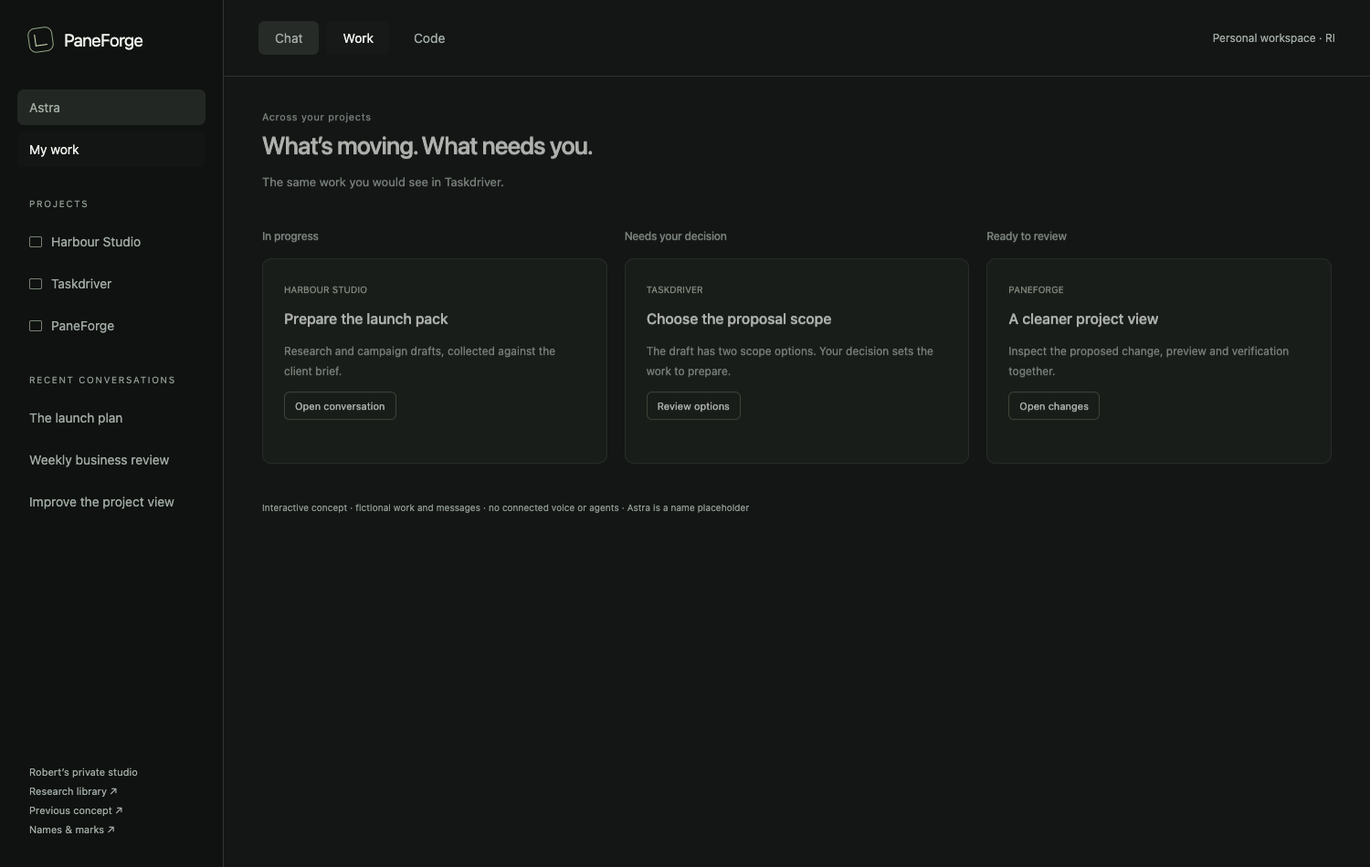
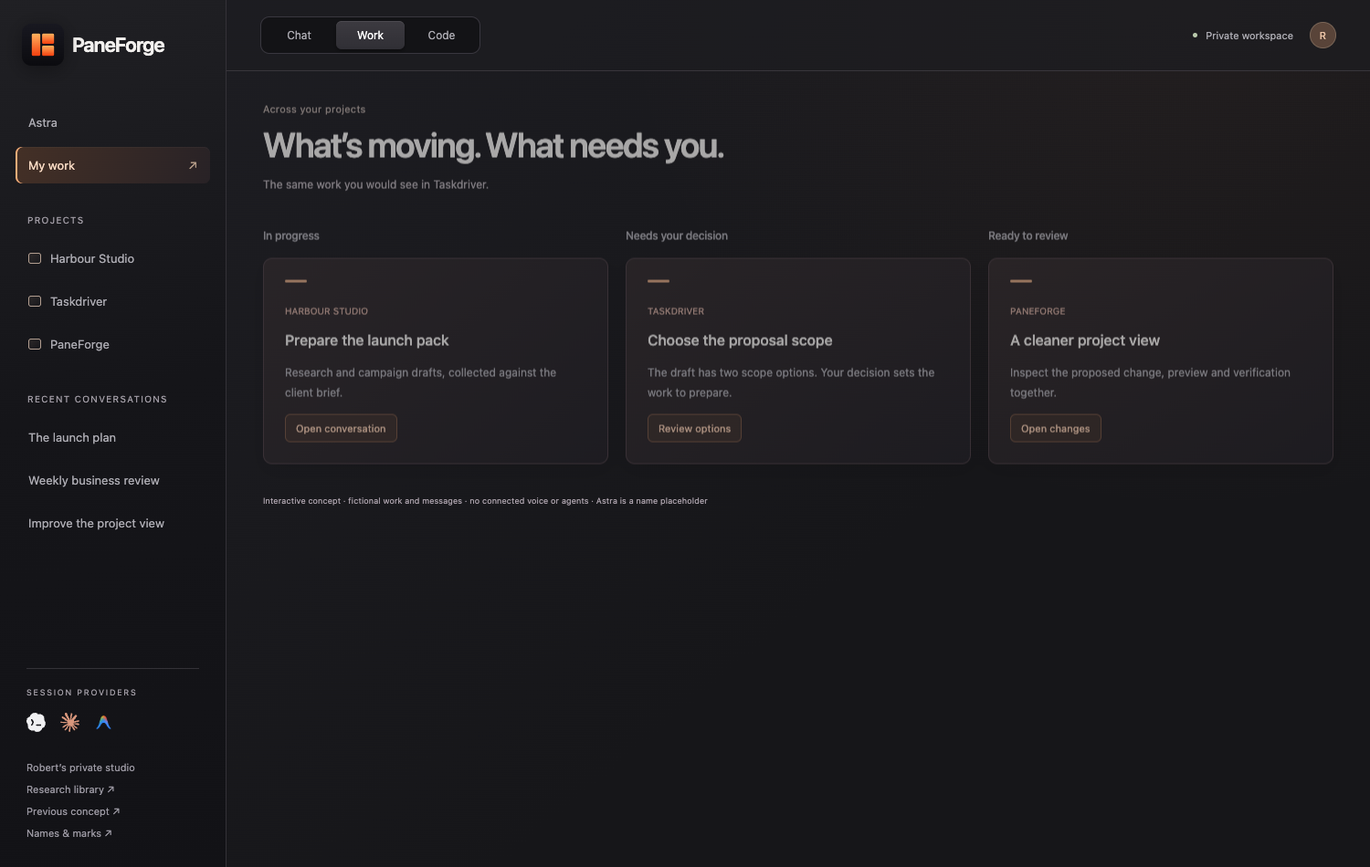
design: restore PaneForge identity and provider branding in studio

diff --git a/docs/design/paneforge-directions/studio.html b/docs/design/paneforge-directions/studio.html
@@ -1,6 +1,6 @@
 <!doctype html><html lang="en"><head><meta charset="utf-8"><meta name="viewport" content="width=device-width, initial-scale=1"><title>PaneForge · Your studio</title><style>
 :root{color-scheme:dark;--bg:#141615;--panel:#1b1e1c;--line:#303531;--text:#eceee9;--muted:#a0aaa2;--accent:#d7e9bd}*{box-sizing:border-box}body{margin:0;background:var(--bg);color:var(--text);font:14px -apple-system,BlinkMacSystemFont,'Segoe UI',sans-serif}button,input,textarea{font:inherit}button,a{color:inherit}button{cursor:pointer;background:none;border:0}a{text-decoration:none}button:focus-visible,a:focus-visible,textarea:focus-visible{outline:2px solid var(--accent);outline-offset:3px}.app{display:grid;grid-template-columns:245px minmax(0,1fr);min-height:100vh}.sidebar{padding:30px 19px;background:#101211;border-right:1px solid var(--line);display:flex;flex-direction:column;gap:7px}.brand{display:flex;align-items:center;gap:12px;font-size:19px;letter-spacing:-.5px;margin:0 12px 34px}.mark{width:27px;height:27px;display:inline-block;border:1px solid #94a786;border-radius:8px;transform:rotate(-8deg);position:relative}.mark:after{content:'';position:absolute;inset:6px;border-left:1px solid var(--accent);border-bottom:1px solid var(--accent)}.sidebar button{text-align:left;padding:11px 13px;border-radius:7px;color:var(--muted)}.sidebar button.active{background:#252a25;color:var(--text)}.sidebar small{font-size:10px;text-transform:uppercase;letter-spacing:1.6px;color:#8c978f;margin:27px 13px 9px}.project{display:flex;gap:10px;align-items:center}.project:before{content:'';width:12px;height:10px;border:1px solid #768175;border-radius:2px}.bottom{margin-top:auto;padding:40px 13px 0;font-size:11px;line-height:1.9;color:var(--muted)}.bottom a{display:block}.main{min-width:0;display:flex;flex-direction:column}.top{height:84px;border-bottom:1px solid var(--line);display:flex;align-items:center;padding:0 38px;gap:32px}.tabs{display:flex;gap:8px}.tabs button{padding:10px 18px;border-radius:7px;color:var(--muted)}.tabs button.active{color:var(--text);background:#292e29}.account{margin-left:auto;font-size:12px;color:var(--muted)}.canvas{padding:35px 42px;max-width:1500px;width:100%;margin:auto;flex:1}.heading{display:flex;align-items:center;justify-content:space-between;gap:15px;margin-bottom:28px}.eyebrow{font-size:11px;color:var(--muted);letter-spacing:.6px}h1{font-size:27px;font-weight:500;letter-spacing:-.8px;margin:9px 0}h2{font-size:17px;font-weight:500;letter-spacing:-.3px}.sub{color:var(--muted);line-height:1.7;font-size:13px}.pill{border:1px solid #424c40;border-radius:20px;padding:8px 13px;font-size:11px;color:#c9d4c5}.chat-layout{display:grid;grid-template-columns:minmax(0,1fr) 275px;gap:42px}.chat{max-width:740px}.speaker{font-size:12px;font-weight:600;margin-bottom:12px;display:flex;align-items:center;gap:9px}.dot{width:7px;height:7px;border-radius:50%;background:var(--accent)}.message{font-size:16px;line-height:1.85;letter-spacing:-.15px;margin-bottom:25px}.user{margin:26px 0 32px 60px;padding:17px 21px;background:#242924;border-radius:14px 14px 3px 14px;font-size:14px;line-height:1.7}.attachment{border:1px solid var(--line);border-radius:10px;display:flex;align-items:center;gap:14px;padding:17px;margin:18px 0}.filemark{border:1px solid #697363;border-radius:5px;padding:12px;font-size:11px;color:var(--accent)}.attachment strong{display:block;font-size:13px;font-weight:500}.attachment small{display:block;font-size:11px;color:var(--muted);margin-top:6px}.attachment button{margin-left:auto;border:1px solid #475040;padding:8px 13px;border-radius:6px;font-size:12px}.composer{border:1px solid #4c5946;background:#1d221c;border-radius:13px;padding:14px 16px;margin-top:35px}.composer textarea{resize:vertical;width:100%;min-height:52px;border:0;background:none;color:var(--text);outline:none;line-height:1.6}.compose-actions{display:flex;align-items:center;gap:10px}.compose-actions button{padding:9px 12px;border-radius:7px;font-size:12px;border:1px solid #424c3f}.compose-actions .send{margin-left:auto;background:var(--accent);color:#1d2917;border:0}.context{border-left:1px solid var(--line);padding-left:26px}.context h2{margin-top:0}.context p{font-size:12px;color:var(--muted);line-height:1.8}.context button{display:block;text-align:left;width:100%;padding:13px 0;border-bottom:1px solid var(--line);font-size:12px}.context small{display:block;color:var(--muted);font-size:11px;margin-top:6px}.context .section{margin-top:35px}.view[hidden]{display:none}.work-grid{display:grid;grid-template-columns:repeat(3,minmax(0,1fr));gap:19px}.column>h2{font-size:12px;color:var(--muted);margin:0 0 17px}.card{background:#1b201b;border:1px solid var(--line);border-radius:10px;padding:23px;margin-bottom:14px;min-height:225px}.card h3{font-size:16px;font-weight:500;line-height:1.5;margin:13px 0}.card p{font-size:12px;color:var(--muted);line-height:1.8}.card button{border:1px solid #4c5746;border-radius:6px;padding:8px 11px;font-size:11px}.card small{font-size:10px;color:#b0b9aa}.code-layout{display:grid;grid-template-columns:180px minmax(0,1fr);border:1px solid var(--line);border-radius:10px;overflow:hidden}.files{padding:20px;background:#111512;color:var(--muted);font:12px ui-monospace,monospace;line-height:2.9}.editor{background:#191e19;min-width:0}.editor header{display:flex;align-items:center;gap:15px;border-bottom:1px solid var(--line);padding:16px 22px;font-size:12px}.editor header span{margin-left:auto;color:var(--muted);font-size:11px}.editor pre{overflow:auto;margin:0;padding:28px;font:13px/2 ui-monospace,SFMono-Regular,monospace;color:#bac7b2;white-space:pre-wrap;overflow-wrap:anywhere}.terminal{border-top:1px solid var(--line);background:#141815;padding:19px 25px}.terminal .actions{display:flex;gap:17px;margin-bottom:20px}.terminal button{font-size:11px;color:var(--muted);padding:3px 0}.terminal output{font:12px/1.8 ui-monospace,monospace;color:#b4c2ab}.prototype{margin-top:30px;font-size:10px;color:#8d988f}.toast{position:fixed;bottom:25px;left:50%;transform:translateX(-50%);background:#e2ebd8;color:#182114;padding:14px 20px;border-radius:8px;max-width:85%;font-size:13px;line-height:1.6;box-shadow:0 5px 35px #0006}.toast:empty{display:none}@media(prefers-reduced-motion:no-preference){.view{animation:enter .18s ease-out}@keyframes enter{from{opacity:.6;transform:translateY(3px)}to{opacity:1;transform:none}}button{transition:background .15s}}@media(max-width:1100px){.app{grid-template-columns:205px minmax(0,1fr)}.canvas{padding:28px}.chat-layout{grid-template-columns:minmax(0,1fr)}.context{display:none}.work-grid{grid-template-columns:1fr}.card{min-height:0}.code-layout{grid-template-columns:130px minmax(0,1fr)}}@media(max-width:640px){.app{display:block}.sidebar{display:none}.top{padding:0 12px;height:68px;gap:5px}.tabs button{padding:10px 14px}.account{font-size:10px}.canvas{padding:23px 19px}.heading{align-items:start}h1{font-size:25px}.pill{display:none}.message{font-size:14px}.user{margin-left:25px}.code-layout{display:block}.files{display:none}.editor header{padding:13px}.editor pre{padding:16px;font-size:11px}.attachment{padding:12px;gap:9px}.attachment button{padding:7px}.context{display:none}}
-</style></head><body><div class="app"><aside class="sidebar"><div class="brand"><span class="mark"></span>PaneForge</div><button class="active" data-mode="chat">Astra</button><button data-mode="work">My work</button><small>Projects</small><button class="project" data-project="Harbour Studio">Harbour Studio</button><button class="project" data-project="Taskdriver">Taskdriver</button><button class="project" data-project="PaneForge">PaneForge</button><small>Recent conversations</small><button data-thread="launch">The launch plan</button><button data-thread="review">Weekly business review</button><button data-mode="code">Improve the project view</button><div class="bottom">Robert’s private studio<br><a href="../../research/open-source-harness-catalogue/index.html">Research library ↗</a><a href="workspace.html">Previous concept ↗</a><a href="branding/index.html">Names & marks ↗</a></div></aside><main class="main"><header class="top"><nav class="tabs" aria-label="Workspace views"><button class="active" data-mode="chat" aria-selected="true">Chat</button><button data-mode="work" aria-selected="false">Work</button><button data-mode="code" aria-selected="false">Code</button></nav><span class="account">Personal workspace · RI</span></header><div class="canvas"><section class="view" id="chat"><div class="heading"><div><div class="eyebrow" id="project-name">Harbour Studio / The launch plan</div><h1>A little more room to think.</h1></div><span class="pill">Astra · Your assistant</span></div><div class="chat-layout"><div class="chat"><div class="user" id="user-message">Can you get the launch ready and show me what needs a decision?</div><div class="speaker"><span class="dot"></span>Astra</div><div class="message" id="answer">Yes. I’d start with the client brief, prepare the campaign drafts, then bring the work back here for review.<br><br>You can keep talking with me while that runs. The project will hold the research, files and decisions together.</div><div class="attachment"><span class="filemark">DOC</span><div><strong id="artifact">Launch brief</strong><small>Sample document · ready to review</small></div><button id="review">Review</button></div><div class="sub">Nothing goes to the client until you approve it.</div><div class="composer"><textarea aria-label="Message Astra" placeholder="Ask Astra, or think out loud…"></textarea><div class="compose-actions"><button id="voice">Talk to Astra</button><button id="attach">Attach</button><button class="send" id="send">Send ↑</button></div></div></div><aside class="context"><h2>In this project</h2><p>Keep the brief close. Bring in more context when the work needs it.</p><button id="folder">Project folder ↗<small>Briefs, assets and deliverables</small></button><button data-mode="work">Launch preparation<small>View the work and decisions</small></button><div class="section"><h2>Working with</h2><button class="role">Research<small>Find sources and clarify gaps</small></button><button class="role">Marketing<small>Turn the brief into campaign drafts</small></button><p>Saved skills, called when needed.</p></div></aside></div></section><section class="view" id="work" hidden><div class="heading"><div><div class="eyebrow">Across your projects</div><h1>What’s moving. What needs you.</h1><p class="sub">The same work you would see in Taskdriver.</p></div></div><div class="work-grid"><div class="column"><h2>In progress</h2><article class="card"><small>HARBOUR STUDIO</small><h3>Prepare the launch pack</h3><p>Research and campaign drafts, collected against the client brief.</p><button data-mode="chat">Open conversation</button></article></div><div class="column"><h2>Needs your decision</h2><article class="card"><small>TASKDRIVER</small><h3>Choose the proposal scope</h3><p>The draft has two scope options. Your decision sets the work to prepare.</p><button class="sample-review">Review options</button></article></div><div class="column"><h2>Ready to review</h2><article class="card"><small>PANEFORGE</small><h3>A cleaner project view</h3><p>Inspect the proposed change, preview and verification together.</p><button data-mode="code">Open changes</button></article></div></div></section><section class="view" id="code" hidden><div class="heading"><div><div class="eyebrow">PaneForge / Improve the project view</div><h1>The details, when you need them.</h1></div><button class="pill" id="preview">Open preview ↗</button></div><div class="code-layout"><aside class="files">src/<br>　components/<br>　 ProjectView.tsx<br>　 ProjectRow.tsx<br>tests/<br>　 project-view</aside><div class="editor"><header>ProjectView.tsx<span>Proposed change · sample</span></header><pre>// Illustrative code, not a repository change
+</style><link rel="stylesheet" href="studio-polish.css"></head><body><div class="app"><aside class="sidebar"><div class="brand"><img class="pf-logo" src="assets/brands/paneforge.svg" alt="PaneForge logo">PaneForge</div><button class="active" data-mode="chat">Astra</button><button data-mode="work">My work <span class="nav-arrow">↗</span></button><small>Projects</small><button class="project" data-project="Harbour Studio">Harbour Studio</button><button class="project" data-project="Taskdriver">Taskdriver</button><button class="project" data-project="PaneForge">PaneForge</button><small>Recent conversations</small><button data-thread="launch">The launch plan</button><button data-thread="review">Weekly business review</button><button data-mode="code">Improve the project view</button><div class="sidebar-providers"><span>SESSION PROVIDERS</span><img src="assets/brands/codex.svg" alt="Codex" title="Codex"><img src="assets/brands/claude.svg" alt="Claude" title="Claude"><img src="assets/brands/antigravity.png" alt="Antigravity" title="Antigravity"></div><div class="bottom">Robert’s private studio<br><a href="../../research/open-source-harness-catalogue/index.html">Research library ↗</a><a href="workspace.html">Previous concept ↗</a><a href="branding/index.html">Names & marks ↗</a></div></aside><main class="main"><header class="top"><nav class="tabs" aria-label="Workspace views"><button class="active" data-mode="chat" aria-selected="true">Chat</button><button data-mode="work" aria-selected="false">Work</button><button data-mode="code" aria-selected="false">Code</button></nav><span class="account"><span class="local-indicator"></span> Private workspace <span class="user-avatar">R</span></span></header><div class="canvas"><section class="view" id="chat"><div class="heading"><div><div class="eyebrow" id="project-name">Harbour Studio / The launch plan</div><h1>The launch plan<span class="heading-period">.</span></h1></div><span class="pill assistant-pill"><span class="astra-spark" aria-hidden="true">✳</span> Astra <span>Your assistant</span></span></div><div class="chat-layout"><div class="chat"><div class="conversation-label">TODAY <span>Project conversation</span></div><div class="user" id="user-message">Can you get the launch ready and show me what needs a decision?</div><div class="speaker"><span class="astra-avatar" aria-hidden="true">✳</span><span>Astra<small>Your personal assistant</small></span></div><div class="message" id="answer">Yes. I’d start with the client brief, prepare the campaign drafts, then bring the work back here for review.<br><br>You can keep talking with me while that runs. The project will hold the research, files and decisions together.</div><div class="attachment"><span class="filemark">DOC</span><div><strong id="artifact">Launch brief</strong><small>Sample document · ready to review</small></div><button id="review">Review</button></div><div class="sub">Nothing goes to the client until you approve it.</div><div class="provider-shelf"><div class="shelf-heading">Choose a session <span>Prototype</span></div><div class="providers"><button class="provider selected" data-provider="Codex" aria-pressed="true"><img src="assets/brands/codex.svg" alt=""><span>Codex</span></button><button class="provider " data-provider="Claude" aria-pressed="false"><img src="assets/brands/claude.svg" alt=""><span>Claude</span></button><button class="provider " data-provider="Antigravity" aria-pressed="false"><img src="assets/brands/antigravity.png" alt=""><span>Antigravity</span></button></div></div><div class="composer"><textarea aria-label="Message Astra" placeholder="Ask Astra, or think out loud…"></textarea><div class="compose-actions"><button id="voice"><svg viewBox="0 0 20 20" aria-hidden="true"><path d="M3 8v4m4-7v10m4-13v16m4-12v8m3-6v4"/></svg>Talk to Astra</button><button id="attach" aria-label="Attach a file">＋</button><span class="selected-provider">Codex</span><button class="send" id="send">Send ↑</button></div></div></div><aside class="context"><div class="project-art" aria-hidden="true"><span class="art-word">H</span><span class="art-caption">HARBOUR<br>STUDIO</span><span class="art-index">Brand & launch</span></div><h2>Harbour Studio</h2><p>Keep the brief close. Bring in more context when the work needs it.</p><button id="folder">Project folder ↗<small>Briefs, assets and deliverables</small></button><button data-mode="work">Launch preparation<small>View the work and decisions</small></button><div class="section"><h2>Project skills</h2><button class="role">Research<small>Find sources and clarify gaps</small></button><button class="role">Marketing<small>Turn the brief into campaign drafts</small></button><p>Available when the task needs them.</p></div></aside></div></section><section class="view" id="work" hidden><div class="heading"><div><div class="eyebrow">Across your projects</div><h1>What’s moving. What needs you.</h1><p class="sub">The same work you would see in Taskdriver.</p></div></div><div class="work-grid"><div class="column"><h2>In progress</h2><article class="card"><small>HARBOUR STUDIO</small><h3>Prepare the launch pack</h3><p>Research and campaign drafts, collected against the client brief.</p><button data-mode="chat">Open conversation</button></article></div><div class="column"><h2>Needs your decision</h2><article class="card"><small>TASKDRIVER</small><h3>Choose the proposal scope</h3><p>The draft has two scope options. Your decision sets the work to prepare.</p><button class="sample-review">Review options</button></article></div><div class="column"><h2>Ready to review</h2><article class="card"><small>PANEFORGE</small><h3>A cleaner project view</h3><p>Inspect the proposed change, preview and verification together.</p><button data-mode="code">Open changes</button></article></div></div></section><section class="view" id="code" hidden><div class="heading"><div><div class="eyebrow">PaneForge / Improve the project view</div><h1>The details, when you need them.</h1></div><button class="pill" id="preview">Open preview ↗</button></div><div class="code-layout"><aside class="files">src/<br>　components/<br>　 ProjectView.tsx<br>　 ProjectRow.tsx<br>tests/<br>　 project-view</aside><div class="editor"><header><img class="editor-provider" src="assets/brands/codex.svg" alt="Codex">ProjectView.tsx<span>Proposed change · sample</span></header><pre>// Illustrative code, not a repository change
 function ProjectView({ project }) {
   return (
     &lt;Project title={project.name}&gt;
@@ -9,5 +9,5 @@ function ProjectView({ project }) {
     &lt;/Project&gt;
   );
 }</pre><div class="terminal"><div class="actions"><button id="copy">Copy output</button><button id="clear">Clear view</button><button id="open-folder">Open folder</button></div><output id="output">Example verification summary<br>Project navigation · passed in sample<br>Conversation history · passed in sample<br>These are illustrative results, not actual app tests.</output></div></div></div></section><div class="prototype">Interactive concept · fictional work and messages · no connected voice or agents · Astra is a name placeholder</div></div></main></div><div class="toast" role="status"></div><script>
-const $=s=>document.querySelector(s);function notice(t){$('.toast').textContent=t}$('.toast').onclick=()=>notice('');function mode(m){document.querySelectorAll('.view').forEach(v=>v.hidden=v.id!==m);document.querySelectorAll('[data-mode]').forEach(b=>{b.classList.toggle('active',b.dataset.mode===m);if(b.closest('.tabs'))b.setAttribute('aria-selected',b.dataset.mode===m)});notice('')}document.querySelectorAll('[data-mode]').forEach(b=>b.onclick=()=>mode(b.dataset.mode));document.querySelectorAll('[data-project]').forEach(b=>b.onclick=()=>{mode('chat');$('#project-name').textContent=b.dataset.project+' / New conversation';$('#user-message').textContent='What should we focus on in '+b.dataset.project+'?';$('#answer').textContent='We can start with the brief, review current work or explore a new idea. This prototype switches project context; it does not retrieve live records.';$('#artifact').textContent=b.dataset.project+' brief'});document.querySelectorAll('[data-thread]').forEach(b=>b.onclick=()=>{mode('chat');$('#project-name').textContent=b.textContent;$('#user-message').textContent=b.dataset.thread==='review'?'Help me review the business this week.':'Let’s work through the launch plan.';$('#answer').textContent=b.dataset.thread==='review'?'I’d bring together the pipeline, delivery commitments and unresolved decisions. We can use those records to decide what deserves your time. This is a sample conversation.':'We can work through the brief and prepare the launch deliverables for review. This is a sample conversation.'});$('#voice').onclick=()=>notice('Voice preview only. A live session would start after connection; no microphone is active.');$('#send').onclick=()=>{const t=$('textarea').value.trim();notice(t?'Draft kept in this prototype. No message was sent to an agent.':'Write a message first.')};$('#attach').onclick=()=>notice('Prototype: attach a brief or file to this conversation.');$('#review').onclick=()=>notice('Sample brief: audience, offer, deliverables and approval requirements. No live client document is connected.');for(const id of ['folder','open-folder'])$('#'+id).onclick=()=>notice('Prototype: open the selected project folder on this Mac.');$('#preview').onclick=()=>notice('This is the design preview. No running app change is connected.');document.querySelectorAll('.role').forEach(b=>b.onclick=()=>notice('A saved role supplies skills and instructions for a task. It does not start a permanent background agent.'));$('.sample-review').onclick=()=>notice('Sample decision: focused launch package or broader ongoing campaign. No business decision has been recorded.');$('#clear').onclick=()=>{$('#output').textContent='View cleared. Saved task history would remain available.'};$('#copy').onclick=async()=>{try{await navigator.clipboard.writeText($('#output').innerText);notice('Copied sample output.')}catch{notice('Clipboard unavailable; select the output text to copy.')}};
+const $=s=>document.querySelector(s);document.querySelectorAll('[data-provider]').forEach(b=>b.onclick=()=>{document.querySelectorAll('[data-provider]').forEach(x=>{x.classList.toggle('selected',x===b);x.setAttribute('aria-pressed',x===b)});$('.selected-provider').textContent=b.dataset.provider;notice(b.dataset.provider+' selected for the prototype. No provider connection was made.')});function notice(t){$('.toast').textContent=t}$('.toast').onclick=()=>notice('');function mode(m){document.querySelectorAll('.view').forEach(v=>v.hidden=v.id!==m);document.querySelectorAll('[data-mode]').forEach(b=>{b.classList.toggle('active',b.dataset.mode===m);if(b.closest('.tabs'))b.setAttribute('aria-selected',b.dataset.mode===m)});notice('')}document.querySelectorAll('[data-mode]').forEach(b=>b.onclick=()=>mode(b.dataset.mode));document.querySelectorAll('[data-project]').forEach(b=>b.onclick=()=>{mode('chat');$('#project-name').textContent=b.dataset.project+' / New conversation';$('.context h2').textContent=b.dataset.project;$('.art-caption').textContent=b.dataset.project;$('.art-word').textContent=b.dataset.project[0];$('#user-message').textContent='What should we focus on in '+b.dataset.project+'?';$('#answer').textContent='We can start with the brief, review current work or explore a new idea. This prototype switches project context; it does not retrieve live records.';$('#artifact').textContent=b.dataset.project+' brief'});document.querySelectorAll('[data-thread]').forEach(b=>b.onclick=()=>{mode('chat');$('#project-name').textContent=b.textContent;$('#user-message').textContent=b.dataset.thread==='review'?'Help me review the business this week.':'Let’s work through the launch plan.';$('#answer').textContent=b.dataset.thread==='review'?'I’d bring together the pipeline, delivery commitments and unresolved decisions. We can use those records to decide what deserves your time. This is a sample conversation.':'We can work through the brief and prepare the launch deliverables for review. This is a sample conversation.'});$('#voice').onclick=()=>notice('Voice preview only. A live session would start after connection; no microphone is active.');$('#send').onclick=()=>{const t=$('textarea').value.trim();notice(t?'Draft kept in this prototype. No message was sent to an agent.':'Write a message first.')};$('#attach').onclick=()=>notice('Prototype: attach a brief or file to this conversation.');$('#review').onclick=()=>notice('Sample brief: audience, offer, deliverables and approval requirements. No live client document is connected.');for(const id of ['folder','open-folder'])$('#'+id).onclick=()=>notice('Prototype: open the selected project folder on this Mac.');$('#preview').onclick=()=>notice('This is the design preview. No running app change is connected.');document.querySelectorAll('.role').forEach(b=>b.onclick=()=>notice('A saved role supplies skills and instructions for a task. It does not start a permanent background agent.'));$('.sample-review').onclick=()=>notice('Sample decision: focused launch package or broader ongoing campaign. No business decision has been recorded.');$('#clear').onclick=()=>{$('#output').textContent='View cleared. Saved task history would remain available.'};$('#copy').onclick=async()=>{try{await navigator.clipboard.writeText($('#output').innerText);notice('Copied sample output.')}catch{notice('Clipboard unavailable; select the output text to copy.')}};
 </script></body></html>

diff --git a/docs/design/paneforge-directions/studio-polish.css b/docs/design/paneforge-directions/studio-polish.css
@@ -1,0 +1,9 @@
+/* PaneForge ember identity. State-driven transitions only; no idle render loop. */
+:root{--bg:#161619;--panel:#202024;--line:#34343a;--text:#f2f0ee;--muted:#acabb2;--accent:#f5ad78;color-scheme:dark}
+body{background:#0e0e11}.app{grid-template-columns:248px minmax(0,1fr)}.sidebar{background:linear-gradient(165deg,#202024 0,#151519 46%,#121216);padding:26px 17px;border-right:1px solid #343238}.brand{font-weight:630;font-size:22px;letter-spacing:-.8px;margin:0 7px 35px;gap:9px}.pf-logo{width:46px;height:46px;object-fit:contain;filter:drop-shadow(0 4px 10px #0005)}.sidebar button{font-size:13px;padding:12px 14px}.sidebar button.active{background:linear-gradient(110deg,#443026,#282226);box-shadow:inset 2px 0 #f5ad78,inset 0 1px #ffffff08;color:#f9dac3}.sidebar small{color:#a29da6;font-size:10px;margin-top:27px;letter-spacing:1.25px}.project:before{border-color:#b29e90;background:linear-gradient(135deg,#bea08720,transparent);border-radius:3px}.sidebar button:hover{background-color:#ffffff08;color:#f5f0eb}.nav-arrow{float:right;color:#b49c88}.sidebar-providers{margin:38px 12px 0;border-top:1px solid #343238;padding-top:23px;display:flex;align-items:center;gap:16px;flex-wrap:wrap}.sidebar-providers>span{width:100%;font-size:9px;letter-spacing:1.6px;color:#a29da6;margin-bottom:1px}.sidebar-providers img{height:21px;width:21px;object-fit:contain}.bottom{padding:22px 12px 0;color:#9b98a2}.bottom a{margin-top:3px}.main{background:radial-gradient(ellipse at 85% 0,#ab735614,transparent 42%),linear-gradient(140deg,#1d1d22,#161619 60%)}.top{height:78px;background:#1c1c20b3;border-color:#39363c;padding:0 37px}.tabs{padding:4px;border:1px solid #39373f;border-radius:10px;background:#131316;gap:3px}.tabs button{min-width:75px;padding:8px 17px;font-size:12px;border-radius:6px}.tabs button.active{background:linear-gradient(#3c3a40,#302f35);box-shadow:0 2px 4px #0005,inset 0 1px #ffffff15;color:white}.account{display:flex;align-items:center;gap:9px;font-size:11px}.user-avatar{display:grid;place-items:center;width:29px;height:29px;border:1px solid #796556;border-radius:50%;color:#eec6a8;background:#594439;margin-left:9px}.local-indicator{height:5px;width:5px;background:#b8c8ab;border-radius:50%}.canvas{padding:32px 40px 24px}.heading{margin-bottom:26px}.eyebrow{font-size:11px;color:#b4a7a1;letter-spacing:.25px}h1{font-size:38px;font-weight:570;letter-spacing:-1.45px;margin-top:10px}.heading-period{color:#f5ad78}.assistant-pill{display:flex;align-items:center;gap:9px;border-color:#534238;background:#362b25;color:#f8d4b9;padding:8px 13px;font-size:12px}.assistant-pill>span:last-child{color:#c3aaa0;font-size:10px;border-left:1px solid #665044;padding-left:9px}.astra-spark{font-size:19px;color:#f3ad7a}.chat-layout{gap:33px;grid-template-columns:minmax(0,1fr) 265px}.chat{max-width:none}.conversation-label{display:flex;align-items:center;gap:11px;color:#b1a1a0;font-size:9px;letter-spacing:1.5px;padding-top:4px}.conversation-label:after{content:'';height:1px;background:linear-gradient(90deg,#464046,transparent);flex:1}.conversation-label span{color:#aaa6af;font-size:10px;letter-spacing:0}.user{background:linear-gradient(115deg,#323036,#29282e);border:1px solid #454048;box-shadow:0 5px 18px #00000014;margin:23px 0 28px 75px;padding:16px 20px;color:#e8e2df;font-size:13px}.speaker{gap:11px;margin-bottom:14px}.speaker small{display:block;color:#a8a0a8;font-size:10px;font-weight:400;margin-top:5px}.astra-avatar{width:36px;height:36px;display:grid;place-items:center;font-size:26px;color:#ffc89f;border:1px solid #72513e;background:radial-gradient(circle at 30% 25%,#966548,#382822 75%);border-radius:11px;box-shadow:0 4px 18px #0004,inset 0 1px #ffddaa22}.message{font-size:15px;line-height:1.85;margin-bottom:23px;color:#e2dfe4}.attachment{padding:15px 16px;background:linear-gradient(120deg,#29252a,#222126);border-color:#494048;box-shadow:0 6px 18px #0002;position:relative;overflow:hidden}.attachment:before{content:'';width:3px;position:absolute;left:0;top:14px;bottom:14px;background:#e7a577;border-radius:3px}.filemark{color:#f1c7a5;border:1px solid #795a48;background:linear-gradient(145deg,#584333,#302927);box-shadow:0 3px 5px #0003;padding:13px 9px;font-weight:550;font-size:9px;border-radius:5px}.attachment strong{font-size:13px}.attachment small{font-size:10px;margin-top:7px;color:#b7a7ac}.attachment button{background:#3e3533;border-color:#685248;font-size:11px;padding:9px 14px;color:#f5d2b8}.sub{font-size:12px;color:#b5aeb4}.provider-shelf{margin-top:28px}.shelf-heading{font-size:10px;color:#b7aeb5;display:flex;justify-content:space-between;margin-bottom:10px}.shelf-heading span{font-size:9px;color:#a198a1}.providers{display:flex;gap:9px}.provider{display:flex;align-items:center;gap:9px;border:1px solid #403c44;border-radius:8px;padding:10px 14px;color:#bdb6bf;background:#211f25;font-size:11px;min-height:42px}.provider img{width:21px;height:21px;object-fit:contain}.provider.selected{border-color:#a97757;background:linear-gradient(120deg,#3d2e26,#272226);color:#ffe1c8;box-shadow:inset 0 1px #ffffff0a}.composer{margin-top:12px;border-color:#6e5142;background:linear-gradient(135deg,#2b2528,#242127);box-shadow:0 8px 30px #0003,inset 0 1px #fbcda013;padding:14px 16px}.composer textarea{min-height:51px;font-size:13px}.composer textarea::placeholder{color:#b4a7af}.compose-actions{gap:12px}.compose-actions button{background:#332b2b;border-color:#5d4940;min-height:36px;color:#f2d0b5}.compose-actions .send{background:linear-gradient(#ffd1ab,#eeaa76);border:1px solid #f7bb8c;color:#3b2216;box-shadow:inset 0 1px #ffe2c8,0 2px 5px #0003;font-weight:600;min-width:70px}#voice{display:flex;align-items:center;gap:8px;font-size:11px}#voice svg{width:16px;height:16px;fill:none;stroke:#f4bb91;stroke-width:1.5;stroke-linecap:round}#attach{font-size:20px;padding:2px 10px;background:transparent;border-color:transparent}.selected-provider{font-size:10px;color:#bda9a0}.context{background:linear-gradient(150deg,#27232899,#1e1c2299);border:1px solid #3d363e;border-radius:12px;padding:17px;height:fit-content}.project-art{height:130px;border:1px solid #ae8a6555;border-radius:7px;background:linear-gradient(125deg,#bc976f,#8c6d50 47%,#5b5143);position:relative;overflow:hidden;margin-bottom:22px}.project-art:before,.project-art:after{content:'';position:absolute;width:180px;height:180px;border:1px solid #ffeac447;border-radius:50%;right:-74px;top:-29px}.project-art:after{width:140px;height:140px;right:-54px;top:-9px}.art-word{position:absolute;left:13px;top:-17px;font:150px/.95 Georgia,serif;color:#f5e2c34a}.art-caption{position:absolute;bottom:31px;left:17px;font-size:12px;font-weight:600;letter-spacing:2.4px;line-height:1.4;color:#fff5e6}.art-index{position:absolute;bottom:13px;left:17px;font-size:8px;letter-spacing:1px;color:#f2dcc5}.context h2{font-size:14px;letter-spacing:-.2px}.context p{font-size:11px;line-height:1.8;color:#b3a9b2}.context button{font-size:11px;border-color:#423a43;padding:12px 0}.context small{font-size:10px;color:#ada0ac;line-height:1.6}.context .section{margin-top:24px}.card{background:linear-gradient(140deg,#30292b,#201e24);border:1px solid #4a3d43;box-shadow:0 7px 22px #0002;position:relative}.card:before{content:'';display:block;width:24px;height:3px;background:#d6a27e;margin-bottom:21px;border-radius:2px}.card small{color:#d2aca0}.card button{background:#3a2e2b;border-color:#755442;color:#f5ccb1}.code-layout{border-color:#494049;box-shadow:0 10px 30px #0003}.files{background:#17151b;color:#bcb0bc}.editor{background:#211e25}.editor header{background:#2c2630;border-color:#493e4a}.editor pre{color:#d3bba8}.terminal{background:#19161d;border-color:#493e4a}.terminal output{color:#c0c7b6}.prototype{color:#aaa0aa;font-size:9px;margin-top:23px}.toast{background:#f5d5b9;color:#35261c}.pill{border-color:#6b4b3a}.sidebar-providers{margin-top:auto;padding-top:20px}.sidebar .bottom{margin-top:0}
+@media(prefers-reduced-motion:no-preference){.provider,.attachment button,.compose-actions button{transition:transform .16s ease,background .16s ease,border-color .16s ease}.provider:hover,.attachment button:hover,.compose-actions button:hover{transform:translateY(-1px);border-color:#b98e71}.provider:active,.compose-actions button:active{transform:translateY(0)}}
+@media(min-width:1700px){.canvas{max-width:1420px;padding-top:40px}.chat-layout{gap:55px;grid-template-columns:minmax(0,1fr) 300px}.message{font-size:16px}.context{padding:22px}.project-art{height:160px}}
+@media(max-width:1100px){.app{grid-template-columns:210px minmax(0,1fr)}.chat-layout{grid-template-columns:minmax(0,1fr)}.canvas{padding:27px}.context{display:none}.brand{font-size:20px}.assistant-pill>span:last-child{display:none}}
+@media(max-width:640px){.app{display:block}.canvas{padding:24px 18px}.top{padding:0 12px;height:70px}.tabs button{min-width:59px;padding:8px 11px}.account{font-size:0;gap:0}.account .local-indicator{display:none}.user-avatar{font-size:11px}.heading{margin-bottom:24px}h1{font-size:30px}.assistant-pill{display:none}.user{margin-left:22px}.providers{gap:6px}.provider{padding:9px 10px;gap:7px;font-size:10px}.provider img{width:18px;height:18px}.selected-provider{display:none}.composer{padding:12px}.compose-actions{gap:6px}.message{font-size:14px}.sidebar-providers{display:none}}
+
+.editor-provider{width:19px;height:19px;object-fit:contain}

diff --git a/docs/design/paneforge-directions/README.md b/docs/design/paneforge-directions/README.md
@@ -52,3 +52,7 @@ Validation receipt is [verification.json](verification.json). Visuals and final 
 ## Personal studio revision
 
 Open `studio.html` for the latest Chat, Work and Code direction, following feedback about artificial counters, colour and orchestration jargon. Astra is a reversible personal-name placeholder. `studio-chat.png`, `studio-work.png` and `studio-code.png` are verified headless previews. Navigation, project switching, clear-view behaviour, mobile width and catalogue integration passed in `studio-verification.json`. All content is simulated; no execution, voice or actual renderer fix is connected. The earlier MP4 illustrates the earlier three directions, not this revision.
+
+### Ember identity refinement
+
+The studio now preserves the real PaneForge icon and carries its ember colour through selected states and actions. Codex and Claude paths come from the existing app; Antigravity uses the official press asset. `assets/brands/README.md` records provenance, with the Lobe Icons licence retained. Provider cards switch their selected state and composer label locally; they do not connect a provider. Typography, layered surfaces, a sample project cover and short hover/selection transitions add identity without continuous animation.

diff --git a/docs/design/paneforge-directions/assets/brands/README.md b/docs/design/paneforge-directions/assets/brands/README.md
@@ -1,0 +1,6 @@
+# Identity assets
+
+PaneForge: copied from the repository icon.svg, preserving the existing ember-pane identity.
+Codex and Claude: exact path data from src/renderer/src/components/brandPaths.ts, which attributes lobehub/lobe-icons (MIT); upstream licence retained here. Colours follow the prototype presentation.
+Antigravity: official full-colour PNG from https://antigravity.google/assets/image/brand/antigravity-icon__full-color.png, linked by https://antigravity.google/press, retrieved 2026-09-13. Preserved as supplied. Used only to identify the provider in this private design concept; no endorsement implied.
+Provider selection is a local visual interaction, not a verified integration or availability claim.
